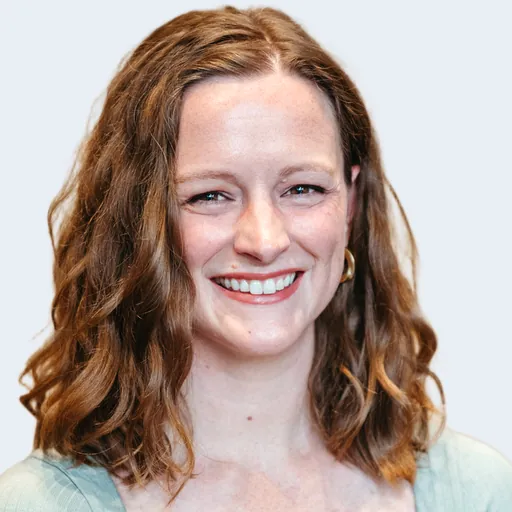
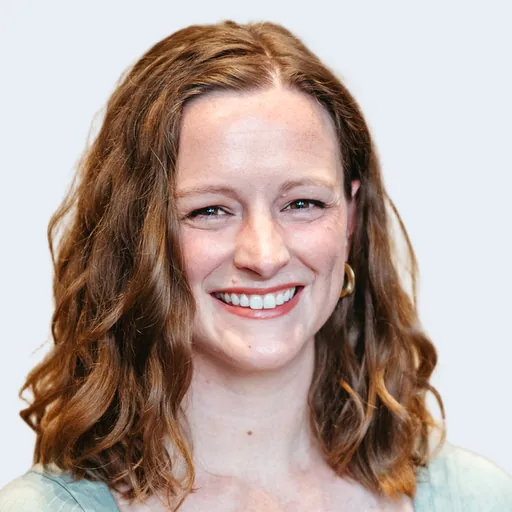
Keep hair off the top edge of the headshot tiles
Some hair ran right up to the tile's top edge: Katie's crown sat 0.3% of
the tile below it and Angela's, Laura's and Nikki's 1-2%, against a median
of 6.5%. The reach's enlargement had also pushed Andrew and Byungyeon up to
about 1.5%.

The cut-out tool now keeps at least 4% of the tile (about 8 CSS px) above
the crown. It does this by lowering the eye line, never by shrinking the
face, which would break the one thing every tile shares. The crown is the
first row of the matte with more than a stray hair across the head, so a
lone wisp can still sit a little higher. The lowering shares REACH_DROP's
6% with the reach, and a photo cut at the top is still never lowered into
view. The report gains a headroom column and names anyone the limit stops
short.

- Lowered for the headroom alone: Katie 3.4%, Angela 3.0%, Laura 2.8%,
  Nikki 1.5% and Lisa 0.5%.
- Andrew and Byungyeon: now 1.20x with the eye line 6% lower (were 1.22x
  and 5%). Their crowns stop about 3% below the top rather than 4%, because
  the reach and the headroom between them use the whole 6%.
- Every other tile is byte-identical.

Re-checked: inside both reframed faces the tile matches the same framing
unstretched to about 0.1px, so the stretch still does not touch a face. The
roster records the new measurements and why each person was lowered. The
colour set is now 551 KB.

Claude-Session: https://claude.ai/code/session_01XG348wN5ByY34urU5UZMf6

diff --git a/assets/team-colour.js b/assets/team-colour.js
@@ -16,7 +16,7 @@
      booted against the first copy of the grid would be holding a detached one.
    - A colour <img> in the markup would be downloaded by every phone, which has no
      hover to show it with. Here the layers are only created once a mouse crosses a
-     team grid, so a touch device never fetches the colour set (554 KB for 30).
+     team grid, so a touch device never fetches the colour set (551 KB for 30).
    - tools/export-content.mjs reads each person's photo as the first team <img> in the
      card, and the handoff pages are a snapshot of the DOM. Nothing here exists until a
      pointer moves, and tools/export-static.mjs removes it if it ever does.

diff --git a/tools/cutout-headshots.py b/tools/cutout-headshots.py
@@ -55,7 +55,7 @@ photographer chose: face heights measured 26% to 71% of the tile. Now:
   - height: every eye line is at EYE of the tile, measured from the top. The eyes are
             found inside the face box; where they are not, the line is placed at
             EYE_IN_BOX of the box, which is where it measured on everyone else, and the
-            report says so.
+            report says so. It is lowered only by THE REACH and THE HEADROOM below.
   - across: the face box is centred.
 
 Nothing is zoomed to suit a photograph beyond what THE REACH below allows, and that is
@@ -85,15 +85,15 @@ neck 15%. No judge saw that at tile size; keeping the whole neck out would have 
 the reach. So the stretch covers at
 most a quarter of the room between that and the photo's edge, as well as EDGE_STRETCH. The
 first version had only the 8% limit, and on the tightest photos the band reached up past
-the chin. A judge measuring Byungyeon's tile found his lip-to-chin 28% longer than in his
-photo, and Andrew's, Sonia's and Ryan's jaws and necks had grown the same way; at the sides,
+the chin. A judge measuring Byungyeon's tile found the lip-to-chin distance 28% longer than
+in the photo, and Andrew's, Sonia's and Ryan's jaws and necks had grown the same way; at the sides,
 Tom Peterson's, Raquel's and Blair's cheeks had widened. No judge looking only at the grid
 had noticed. Checked since: inside every face keep, the stretched cut-out and the same
 framing unstretched agree to under a pixel.
 
 A side is stretched, or reached for, only where the person meets it below the chin. A side
 met above the chin is hair, or someone standing beside them: Allison's photo has a
-neighbour's shoulder and hair at its left edge, which the matte keeps joined to her.
+neighbour's shoulder and hair at its left edge, which the matte keeps joined to Allison.
 Stretching that edge carried a strip of someone else's hair to the tile's edge, so it keeps
 the fade, as it always had.
 
@@ -113,14 +113,28 @@ normally, by independent judges looking at colour and duotone at 200 and 400px. 
 about 1.2x and eye lines up to 6% lower read as the same crop; 8% lower read as a sunken head,
 and 1.34x as a cramped passport photo with the crown cut off.
 
+THE HEADROOM keeps hair off the tile's top edge. At the shared framing a big head of hair
+can run right up to it: in September 2026 Katie's crown sat 0.3% of the tile below the top,
+Angela's, Laura's and Nikki's 1-2%, against a median of 6.5%, and THE REACH's enlargement
+had pushed Andrew's and Byungyeon's up to 1.5%. So wherever the crown would sit closer than
+HEADROOM to the top, the eye line is lowered by the difference. The face is never shrunk
+for it, which would break the one thing every tile shares. The crown is the first row of the
+matte with more than a stray hair across the head, so a lone wisp can still sit a little
+higher. The lowering shares REACH_DROP with THE REACH, and a photo cut at the top is again
+lowered no further than keeps that cut above the tile.
+
 Where it landed in September 2026:
 - enlarged 1.03x and 1% lower: Aarav's photo;
 - enlarged 1.15-1.21x: Blair's, Raquel's and Tom Peterson's (cut at the sides);
 - enlarged 1.16x and 4% lower: Sonia's;
-- enlarged 1.22x and 5% lower: Andrew's, and at 2.4x his 203px original, one of the softest
-  tiles on the page.
-Byungyeon's is grounded the same way, but his passport photo cuts his shoulders 18% in from
-both sides, and reaching them would take more than the limit, so his sides still fade.
+- enlarged 1.20x and 6% lower: Andrew's, and at 2.4x a 203px original, one of the softest
+  tiles on the page;
+- lowered for the headroom alone: Katie's 3.4%, Angela's 3.0%, Laura's 2.8%, Nikki's 1.5%
+  and Lisa's 0.5%.
+Byungyeon's is grounded the same way as Andrew's, but the passport photo cuts the shoulders
+18% in from both sides, and reaching them would take more than the limit, so the sides
+still fade. Andrew's and Byungyeon's crowns stop about 3% below the top rather than 4%: the
+reach and the headroom between them use the whole of REACH_DROP, and the report says so.
 Ryan's 190px photo is cut at the hairline and across the chest, and cannot be grounded
 within the limits without stretching his chin, so it is left exactly as it was. A 1.29x
 framing that grounded him was preferred by every judge to the floating bust, but its
@@ -180,6 +194,7 @@ FACE_KEEP = 0.10  # THE FACE KEEP: the face box grown by this much of its size o
                   # which the stretch may never reach into
 REACH_DROP = 0.06 # THE REACH's limits: how far below EYE an eye line may be lowered, as a
 REACH_ZOOM = 1.25 # fraction of the tile, and how much larger than FACE a face may be made
+HEADROOM = 0.04   # THE HEADROOM: the least room between the crown and the tile's top edge
 
 
 def pictured():
@@ -322,32 +337,43 @@ def frame(slug):
         return hi
     zoom_at = lambda t: 1 + (REACH_ZOOM - 1) * t
 
+    # THE HEADROOM. The crown is the first row of the matte with more than a stray hair on
+    # it, counted only across the head (the face box and three quarters of its width either
+    # side), so neither a wisp nor someone standing at the photo's edge decides it.
+    x0, x1 = max(0, int(fx - 0.75 * fw)), min(W, int(fx + 1.75 * fw))
+    crown = int(np.argmax((a[:, x0:x1] > 0.5).sum(1) >= max(2, 0.03 * fw)))
+    crown_at = lambda z, d: (EYE + d) * T - (eye_y - crown) * s * z  # its tile row
+    headroom_drop = lambda z: max(0.0, HEADROOM - crown_at(z, 0) / T)
+
     def drop_at(t, z):
-        d = REACH_DROP * t
+        # The eye line is lowered for THE REACH (its share, t) or for THE HEADROOM, whichever
+        # asks more, and the two together never past REACH_DROP.
+        d = min(REACH_DROP, max(REACH_DROP * t, headroom_drop(z)))
         if touches['top']:
             # the photo's top edge sits at (EYE + d) * T - eye_y * s * z; keep it two pixels
             # above the tile, so rounding cannot land it on the first row and fade the crown
             d = min(d, max(0.0, (eye_y * s * z - 2) / T - EYE))
         return d
-    short = [k for k in ('bottom', 'left', 'right') if shoulder[k] and not fits(k, 1, 0)]
+    short = [k for k in ('bottom', 'left', 'right') if shoulder[k] and not fits(k, 1, drop_at(0, 1) if k == 'bottom' else 0)]
     unreached = [k for k in short if not fits(k, REACH_ZOOM, drop_at(1, REACH_ZOOM) if k == 'bottom' else 0)]
     if 'bottom' in unreached:
         # A figure that still floats gains nothing from a larger face: reach nothing.
         unreached = short
     sides = [k for k in short if k != 'bottom' and k not in unreached]
     z = zoom_at(least(lambda t: all(fits(k, zoom_at(t), 0) for k in sides))) if sides else 1.0
-    d = 0.0
+    d = drop_at(0, z)  # THE HEADROOM's own lowering, whatever the reach does
     if 'bottom' in short and 'bottom' not in unreached:
         tb = least(lambda t: fits('bottom', max(z, zoom_at(t)), drop_at(t, max(z, zoom_at(t)))))
         z = max(z, zoom_at(tb))
         # With the zoom settled (the sides may have asked for more), lower no further than
-        # the bottom still needs.
-        most = drop_at(tb, z)
-        d = most * least(lambda u: fits('bottom', z, most * u))
+        # the bottom still needs, and never less than the headroom does.
+        floor, most = drop_at(0, z), drop_at(tb, z)
+        d = floor + (most - floor) * least(lambda u: fits('bottom', z, floor + (most - floor) * u))
     stretch_ok = {k: shoulder[k] and stretchable(k, z, d) for k in ('bottom', 'left', 'right')}
-    s, eye = s * z, EYE + d
-    reach = {'zoom': round(z, 3), 'drop': round(d, 4), 'unreached': unreached,
+    reach = {'zoom': round(float(z), 3), 'drop': round(float(d), 4), 'unreached': unreached,
+             'headroom': round(float(crown_at(z, d) / T), 4),
              'not_shoulder': [k for k in ('left', 'right') if touches[k] and not shoulder[k]]}
+    s, eye = s * z, EYE + d
 
     def place():
         ox, oy = T / 2 - (fx + fw / 2) * s, eye * T - eye_y * s
@@ -471,28 +497,33 @@ def main():
         for s in todo:
             print(f'matting {s}', flush=True)
             subprocess.run([sys.executable, __file__, f'--matte={s}'], check=True)
-    warn, loose, beside = [], [], []
+    warn, loose, beside, crowded = [], [], [], []
     # scale is against the 512 the tile ships at, so anything over 1 is a photograph being
-    # enlarged; "reach" is THE REACH's enlargement of the face and lowering of the eye line;
+    # enlarged; "reach" is the enlargement of the face and lowering of the eye line, by THE
+    # REACH and THE HEADROOM; "room" is the headroom above the crown;
     # "faded" is how far inside the tile each source edge that still cuts the person lands,
     # and "stretched" the ones close enough to the tile's edge to be stretched out to it.
-    print(f"\n{'':22}{'source':>11} {'face':>5} {'eye line':>9} {'scale':>6}  {'reach':16}{'faded':22}{'stretched':30}lift")
+    print(f"\n{'':22}{'source':>11} {'face':>5} {'eye line':>9} {'scale':>6}  {'reach':16}{'room':>5}  {'faded':22}{'stretched':30}lift")
     for s in slugs:
         r = frame(s)
         pct = lambda d: ', '.join(f'{k} {v:.0%}' for k, v in sorted(d.items(), key=lambda kv: -kv[1])) or '-'
-        reach = (f"{r['zoom']:.2f}x" + (f", eye -{r['drop']:.0%}" if r['drop'] >= 0.005 else '')) if r['zoom'] > 1 else '-'
+        reach = ', '.join([f"{r['zoom']:.2f}x"] * (r['zoom'] > 1) + [f"eye -{r['drop']:.1%}" if r['drop'] < 0.0095 else f"eye -{r['drop']:.0%}"] * (r['drop'] >= 0.001)) or '-'
         print(f"{s:22}{r['source']:>11} {r['face_px']:>5} {r['eye_line']:>9} {r['scale']:>5}x  "
-              f"{reach:16}{pct(r['cuts']):22}{pct(r['extended']):30}{r['lift']:.3f}")
+              f"{reach:16}{r['headroom']:>5.0%}  {pct(r['cuts']):22}{pct(r['extended']):30}{r['lift']:.3f}")
         if r['face_kept'] < 0.95:
             warn.append(f"{s} ({r['face_kept']:.0%})")
         if r['unreached']:
             loose.append(f"{s} ({', '.join(r['unreached'])})")
         if r['not_shoulder']:
             beside.append(f"{s} ({', '.join(r['not_shoulder'])})")
+        if r['headroom'] < HEADROOM - 0.0005:
+            crowded.append(f"{s} ({r['headroom']:.1%})")
     if loose:
         print(f'\nbeyond the reach, so still fading: {", ".join(loose)}. A looser original is the fix.')
     if beside:
         print(f'\nmet above the chin, so not a shoulder and left to the fade: {", ".join(beside)}.')
+    if crowded:
+        print(f'\nless than {HEADROOM:.0%} above the crown, the lowering having reached its limit: {", ".join(crowded)}.')
     if warn:
         print(f'\na fade reaches into the face: {", ".join(warn)}. That photograph is too tight for the '
               'shared framing; ask for a looser one rather than special-casing it.')
